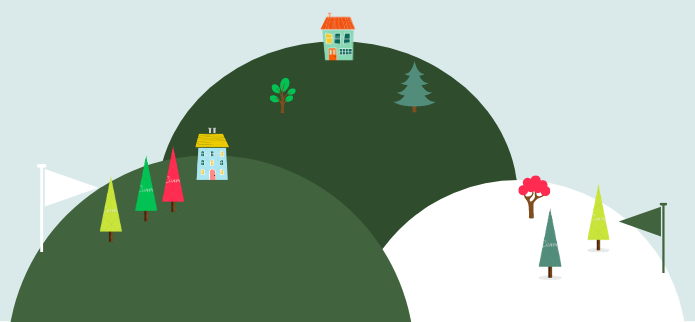
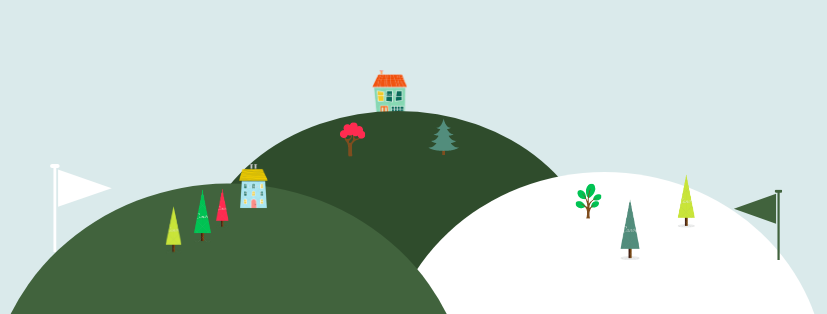
added last images

Changed region(s): [[0.0, 0.0287, 0.9669, 1.0], [0.9971, 0.9745, 1.0, 1.0], [0.9669, 0.8885, 0.9971, 0.9172]]

diff --git a/index.html b/index.html
@@ -16,12 +16,12 @@
         <h1>I'm Uwase.</h1>
         <p>a <span class="pro">pro</span>grammer.</p>
         <img class="bottom-cloud" src="https://res.cloudinary.com/auca/image/upload/v1600357685/cloud_xb82wp.png" alt="cloud-image">
-        <img src="https://res.cloudinary.com/auca/image/upload/v1600352176/mountain_yw89w4.png" alt="mountain-image">
+        <img src="https://res.cloudinary.com/auca/image/upload/v1600422098/mountain_itoa7i.png" alt="mountain-image">
         
     </div>
     <div class="middle-container">
      <div class="profile">
-        <img src="" alt="">
+        <img src="https://res.cloudinary.com/auca/image/upload/v1600422090/uwase_oxje2v.png" alt="profile-image">
         <h2>Hi.</h2>
         <p>I'm currently a student in web development based in Kigali,Rwanda. I have a passion for web design and love to create website.</p>
 
@@ -31,13 +31,13 @@
      <div class="skills">
         <h2>My skills</h2>
         <div class="skill">
-            <img src="" alt="">
+            <img src="https://res.cloudinary.com/auca/image/upload/v1600422104/computer_aqlnny.png" alt="computer-image">
             <h3></h3>
              <p></p>
 
         </div>
         <div class="skill">
-            <img src="" alt="">
+            <img src="https://res.cloudinary.com/auca/image/upload/v1600422111/coding_wmzkhi.png" alt="code-element">
             <h3></h3>
              <p></p>
         </div>
@@ -46,13 +46,13 @@
     <div class="hobbies">
         <h2>My hobbies</h2>
         <div class="hobby">
-            <img src="" alt="">
+            <img src="https://res.cloudinary.com/auca/image/upload/v1600422125/books_atum6w.png" alt="books-image">
            <h3></h3>
            <p></p>
         </div>
 
         <div class="hobby">
-            <img src="" alt="">
+            <img src="https://res.cloudinary.com/auca/image/upload/v1600422118/friends_efw6so.png" alt="friends-image">
            <h3></h3>
            <p></p>
         </div>

diff --git a/css/style.css b/css/style.css
@@ -34,3 +34,9 @@ h3{
     right: 350px;
     top: 50px;
 }
+.middle-container{
+    text-align: center;
+}
+.bottom-container{
+    text-align: center;
+}
